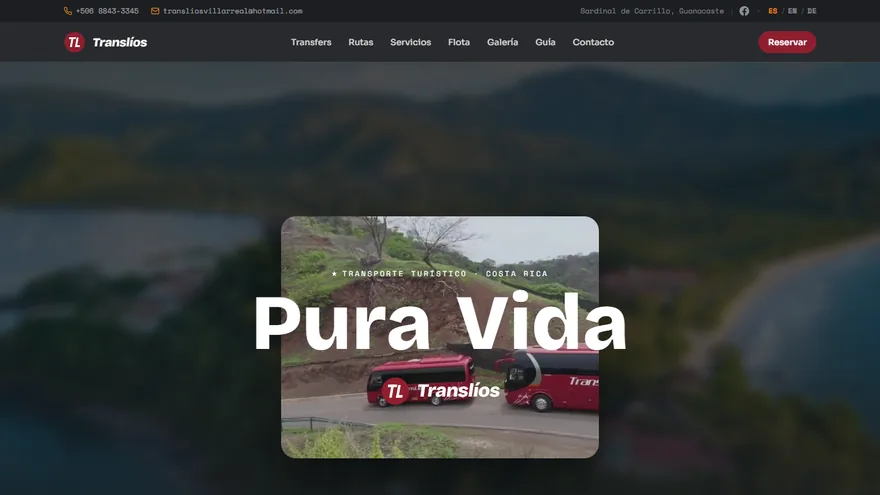
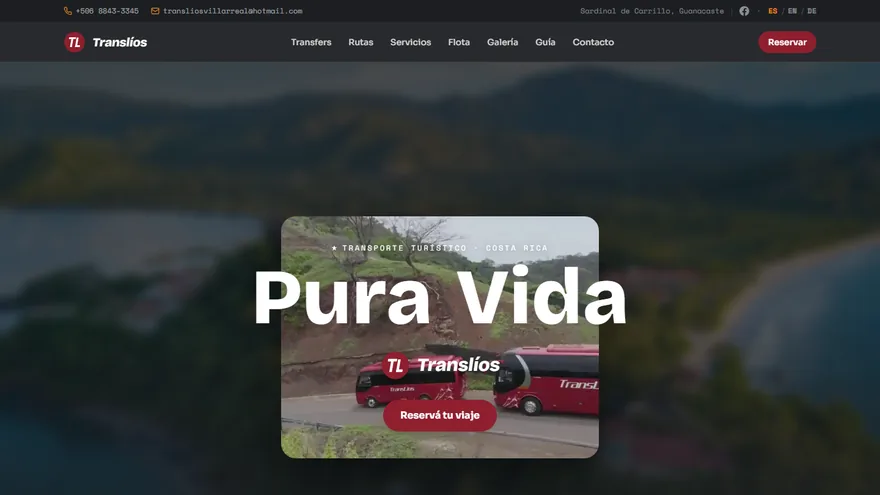
Trabajo: Translios ahora enlaza al dominio oficial translioscostarica.com (link + miniatura recapturada)

Changed region(s): [[0.2761, 0.4242, 0.7364, 0.9394], [0.6443, 0.8788, 0.675, 0.9091], [0.5523, 0.4848, 0.583, 0.5152]]

diff --git a/index.html b/index.html
@@ -90,7 +90,7 @@
       <div class="rr-cases">
 
         <article class="rr-case reveal">
-          <a class="rr-case__shot" href="https://translios-web.vercel.app" target="_blank" rel="noopener" aria-label="Ver Translios en vivo">
+          <a class="rr-case__shot" href="https://translioscostarica.com" target="_blank" rel="noopener" aria-label="Ver Translios en vivo">
             <img src="assets/work/translios.webp" alt="Sitio web de Translios" loading="lazy" width="880" height="495" />
             <span class="rr-case__view">Ver en vivo ↗</span>
           </a>
@@ -99,7 +99,7 @@
             <h3 class="rr-case__name">Translios</h3>
             <p class="rr-case__out">Rebrand completo, hero en video y reservas claras. Un sitio que transmite confianza y hace fácil coordinar el traslado.</p>
             <div class="rr-case__tags"><span>Next.js</span><span>Reservas</span><span>Rebrand</span></div>
-            <a class="rr-case__link" href="https://translios-web.vercel.app" target="_blank" rel="noopener">Ver sitio ↗</a>
+            <a class="rr-case__link" href="https://translioscostarica.com" target="_blank" rel="noopener">Ver sitio ↗</a>
           </div>
         </article>
 
